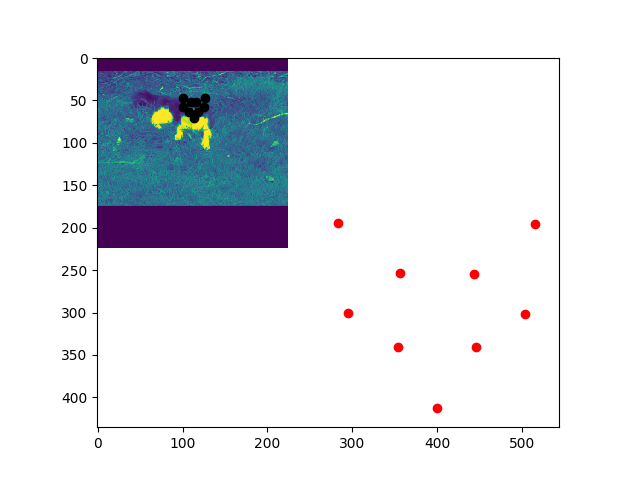
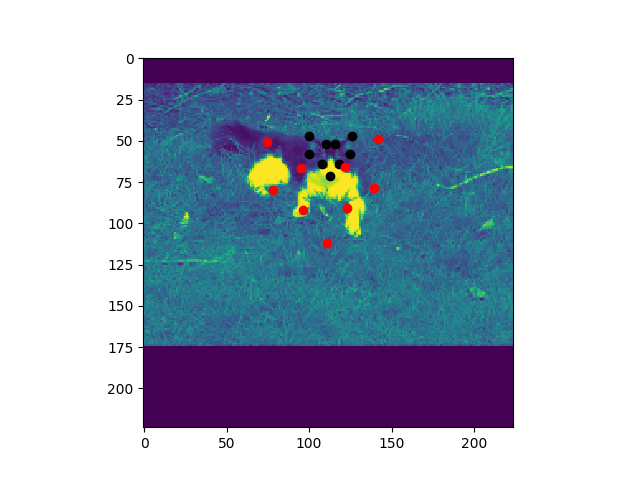
normalized test data

diff --git a/model.py b/model.py
@@ -53,7 +53,7 @@ class Model:
         return images, coords
     
     def train_model(self):
-        checkpoint = ModelCheckpoint(filepath='weights/checkpoint.hdf5', monitor="val_accuracy", verbose=1, save_best_only=True, mode="max")
+        checkpoint = ModelCheckpoint(filepath='weights/checkpoint.hdf5', monitor="val_loss", verbose=1, save_best_only=True, mode="auto")
         epochs = 350
         batch_size = 32
 
@@ -73,7 +73,7 @@ class Model:
     
     # Load weights for a previously trained model
     def load_trained_model(self):
-        self.model.load_weights('weights/checkpoint-699.hdf5')
+        self.model.load_weights('weights/checkpoint.hdf5')
 
     # Function which plots an image with it's corresponding keypoints
     def visualize_points(self, img, coords, img_index):

diff --git a/main.py b/main.py
@@ -19,15 +19,17 @@ def main():
 
     img_path = 'processed_train_imgs/img0.npy'
     coord_path = 'processed_train_coords/coord0.npy'
-    images = np.load(img_path)
+    images = np.load(img_path) / 255.
     coords = np.load(coord_path)
     model = Model(224, 224)
     model.compile_model()
     model.train_model()
+    model.load_trained_model()
+
     
     test_img_path = "processed_test_imgs/img0.npy"
     test_coord_path = "processed_test_coords/coord0.npy"
-    test_images = np.load(test_img_path)
+    test_images = np.load(test_img_path) / 255.
     test_coords = np.load(test_coord_path)
     model.test(test_images, test_coords)
     for img_index in range(10, 13):
